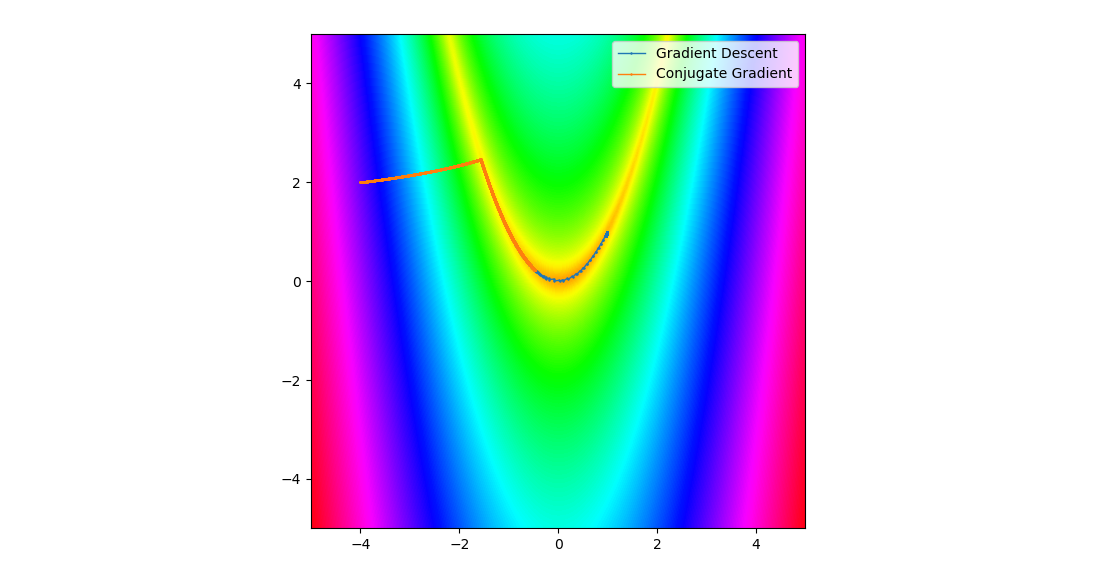
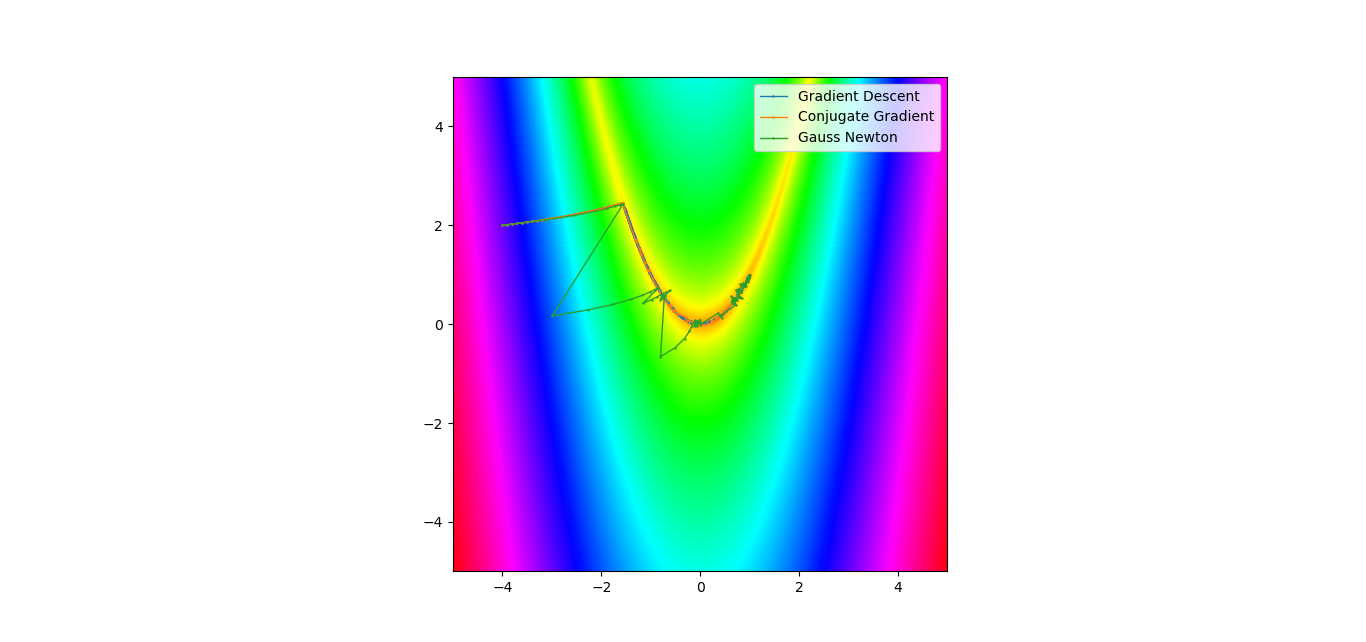
WIP add Gauss-Newton

diff --git a/Numerical_Optimization/numerical_optimization.py b/Numerical_Optimization/numerical_optimization.py
@@ -32,6 +32,7 @@ def grad_f_rosen(x, y):
 
 F = f_rosen
 grad_F = grad_f_rosen
+
 #%%
 # visualization
 xmin, xmax = -5.0, 5.0
@@ -52,7 +53,7 @@ plt.imshow(Z, interpolation="bicubic",
 
 init_range = 10.0
 x0 = (np.random.random(2) - 0.5) * init_range 
-#x0 = np.array([-4.0, 2.0])
+x0 = np.array([-4.0, 2.0])
 
 eps = 1e-12
 
@@ -123,6 +124,7 @@ h = g
 values = [x0]
 possible_steps = np.linspace(0.0001, 0.1, 10000).reshape((-1, 1))
 while abs(prev_loss - loss ) > eps and it < MAX_ITER and np.linalg.norm(x - [1.0, 1.0]) > 1e-4:
+    prev_loss = loss
     g_prev = g
     h_prev = h
     
@@ -151,3 +153,58 @@ print("Conjugate Gradient: Converged towards : %.2f %.2f in %d iterations" % (x[
 
 plt.legend()
 
+#%% Gauss-Newton
+
+def f_convex1d(x):
+    return -np.exp(-(x - 1.0)**2)
+            #.0 / ((x -3)**2+0.1) + 1.0 / ((x-2)**2+0.05) + 2.0
+        
+def grad_f_convex1d(x):
+#    return -0.4*(x-0.7)**2 * -np.exp(-0.4*(x - 0.7)**2) * -0.4 * 2 * (x - 0.7)
+    return -2.0*(x-1.0)*np.exp((x-1)**2)
+
+F = f_convex1d
+grad_F = grad_f_convex1d
+
+X = np.linspace(xmin, xmax, 1000)
+Y = F(X)
+plt.plot(X, Y)
+
+x0 = np.array([2.5])
+
+cost = F(*x0)
+loss = 0.5 * cost**2
+prev_loss = loss + 1
+
+MAX_ITER = 100
+it = 0
+
+step = 0.001
+
+x = x0
+values = [x0]
+possible_steps = np.linspace(0.0001, 0.1, 10000).reshape((-1, 1))
+while abs(prev_loss - loss ) > eps and it < MAX_ITER and abs(x-1.0) > 1e-4:
+    prev_loss = loss
+    
+    J = grad_F(*x).reshape((1, -1))
+    if (abs(J[0]) < 1e-9):
+        break
+    d = -np.linalg.inv(J.dot(J.T)) * J * F(*x)
+    d = d.flatten()
+    print(J, d)
+    
+    x = x + d
+    loss = 0.5 * F(*x)**2
+    it += 1
+    
+    values.append(x)
+
+values = np.vstack(values)
+#plt.plot(values[:,0], values[:, 1], marker='+', markersize=2, lineWidth=1, label="Gauss Newton")    
+plt.plot(values[:,0], F(values), marker='+', markersize=2, lineWidth=1, label="Gauss Newton")    
+
+#print("Gauss Newton: Converged towards : %.2f %.2f in %d iterations" % (x[0], x[1], it))
+print("Gauss Newton: Converged towards : %.2f in %d iterations" % (x[0], it))
+
+plt.legend()
